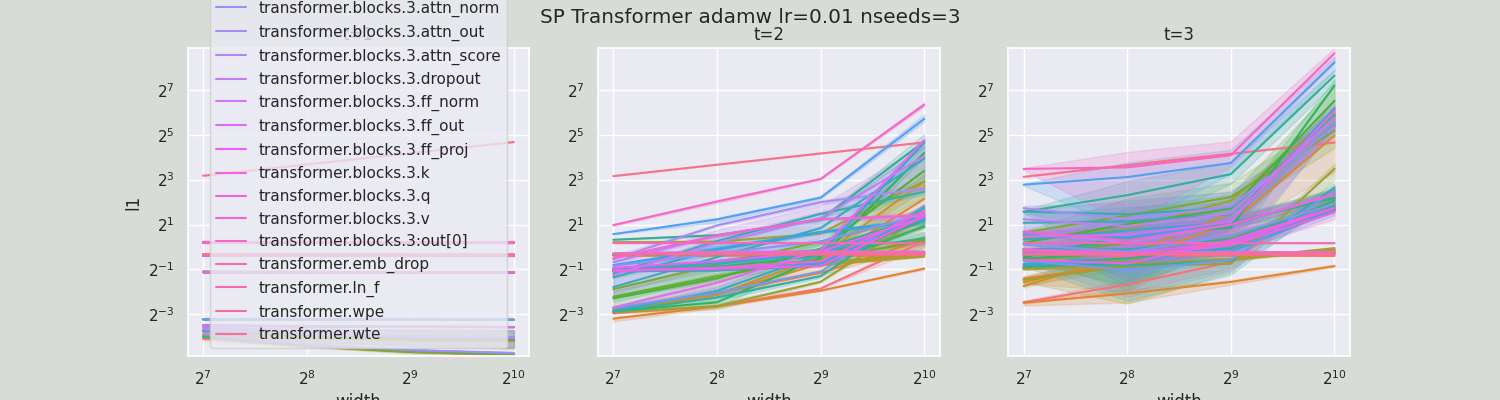
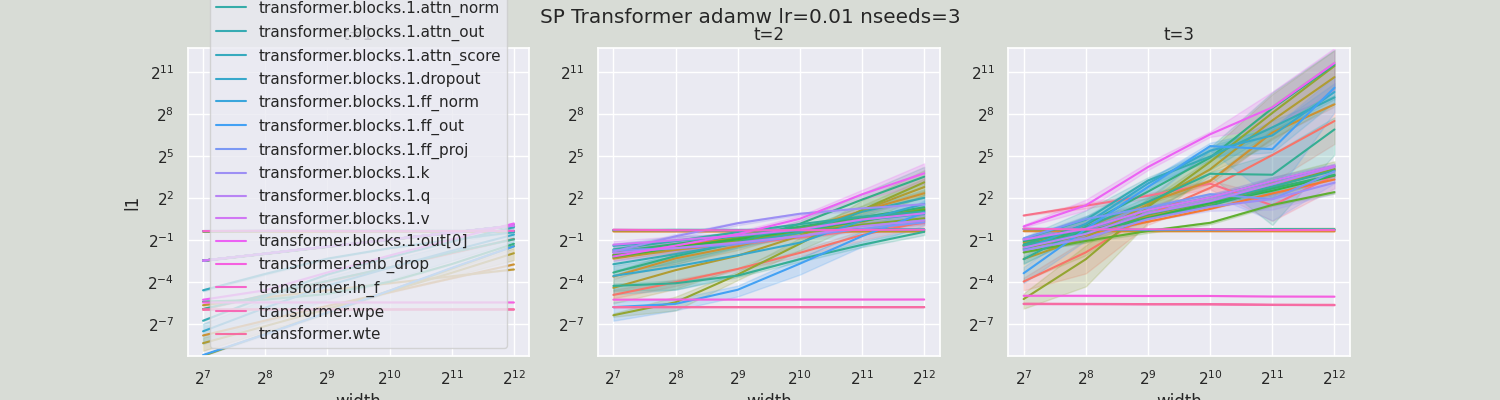
smaller model

diff --git a/olmo/scaling/mup_coord_check.py b/olmo/scaling/mup_coord_check.py
@@ -88,12 +88,14 @@ def coord_check(mup, lr, optimizer, batch_size, nsteps, nseeds, args, plotdir=""
             else:
                 assert args.load_base_shapes, "load_base_shapes needs to be nonempty"
                 set_base_shapes(model, args.load_base_shapes)
+
+            model.reset_parameters()  # to apply mup init TODO: confirm
             return model
 
         return f
 
     optimizer = optimizer.replace("mu", "")
-    widths = 2 ** np.arange(7, 11)
+    widths = 2 ** np.arange(7, 13)
     models = {w: gen(w, standparam=not mup) for w in widths}
 
     train_config = TrainConfig.load(args.config_path)
